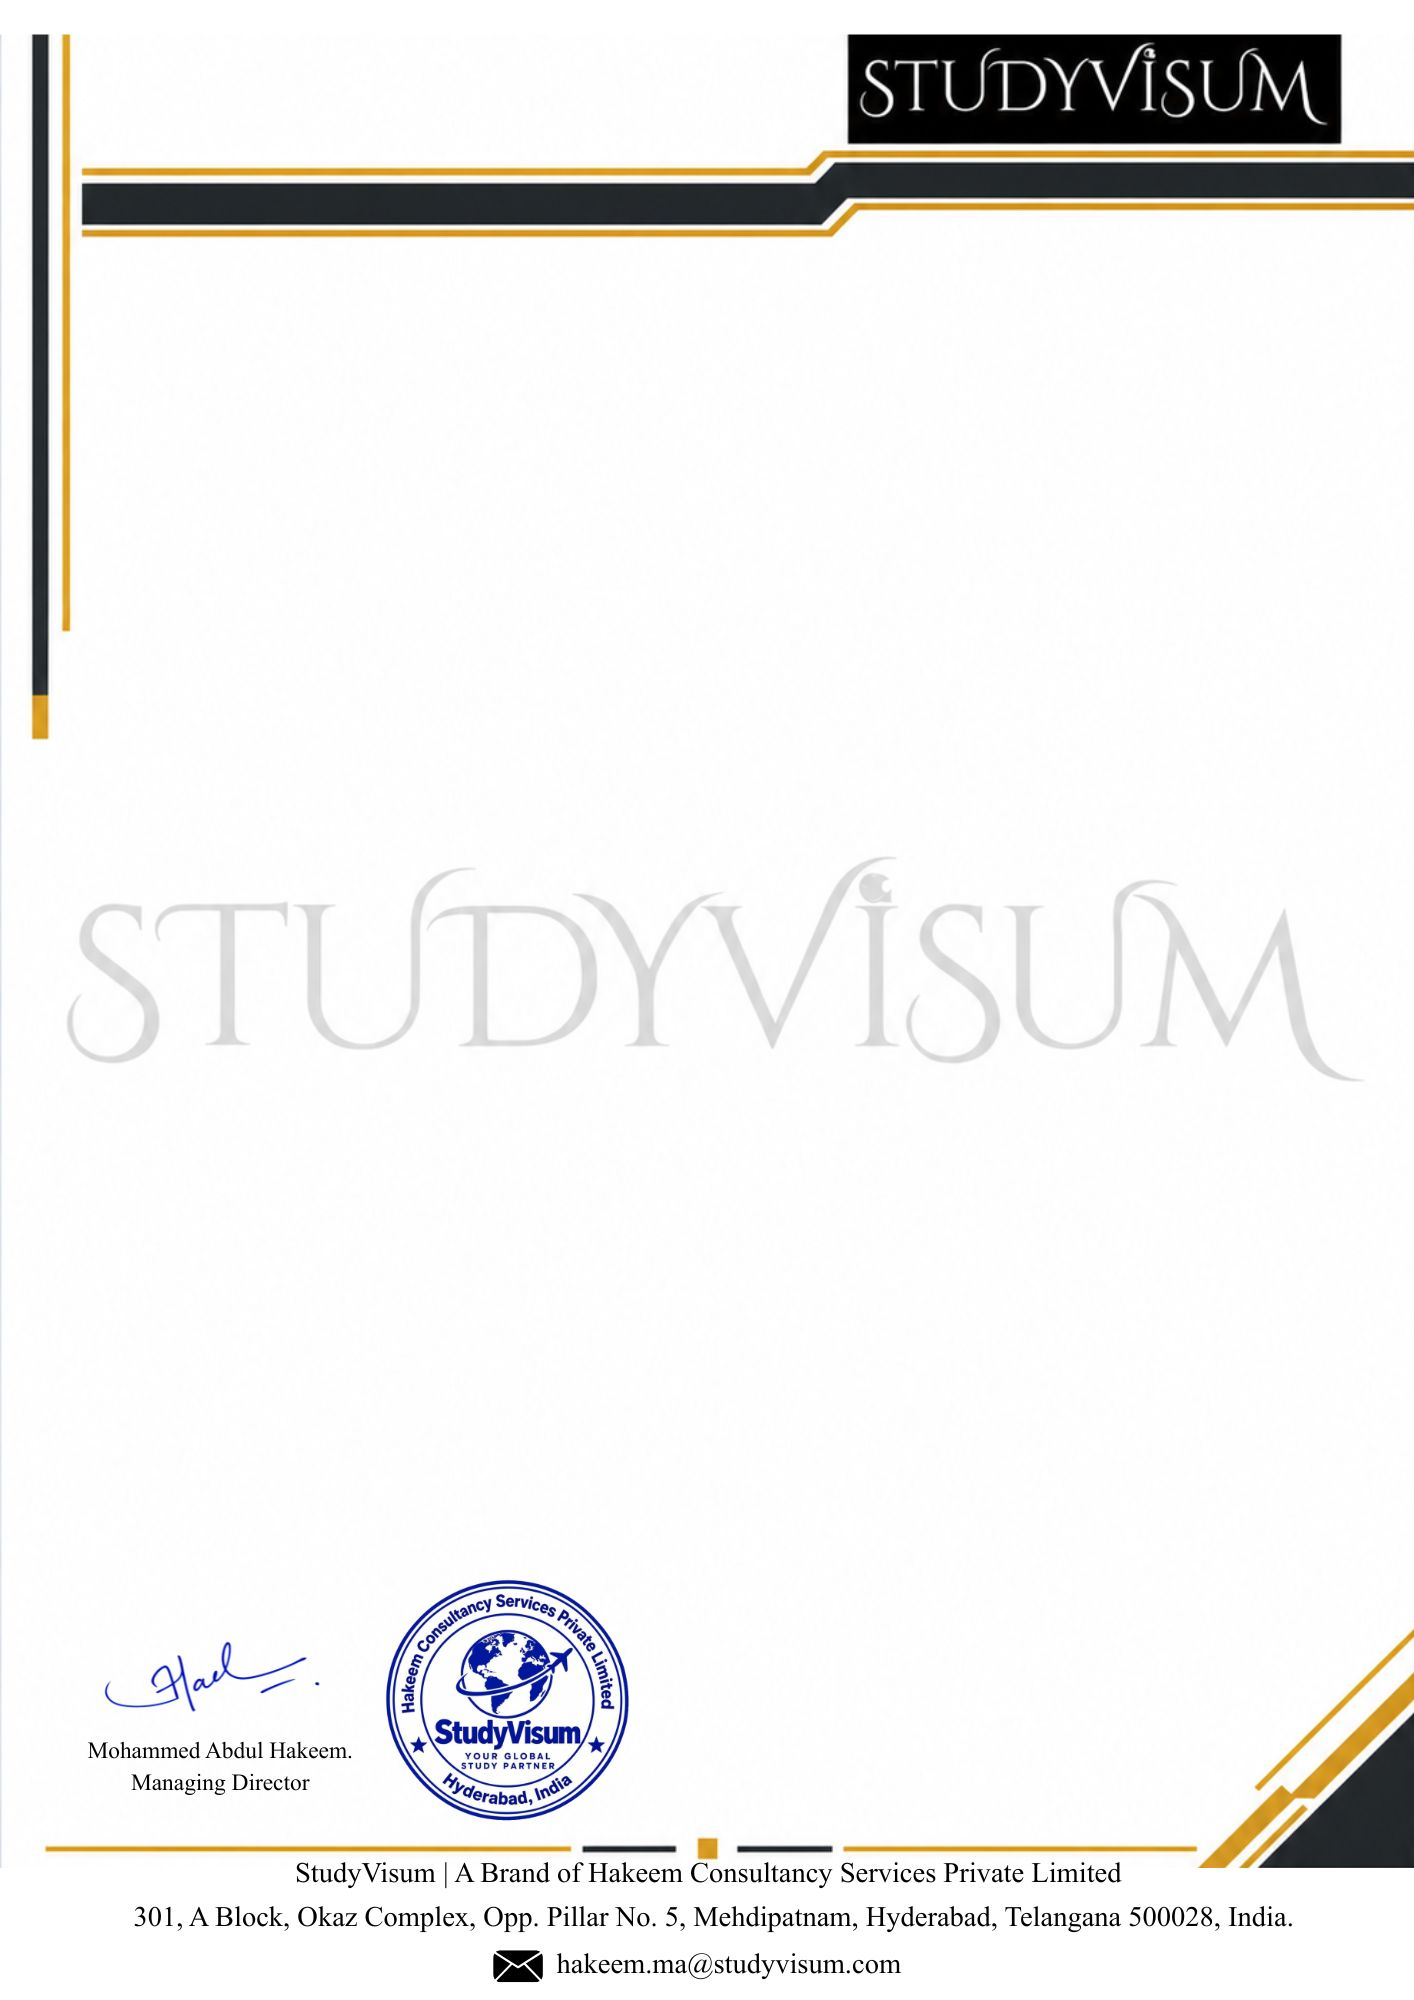
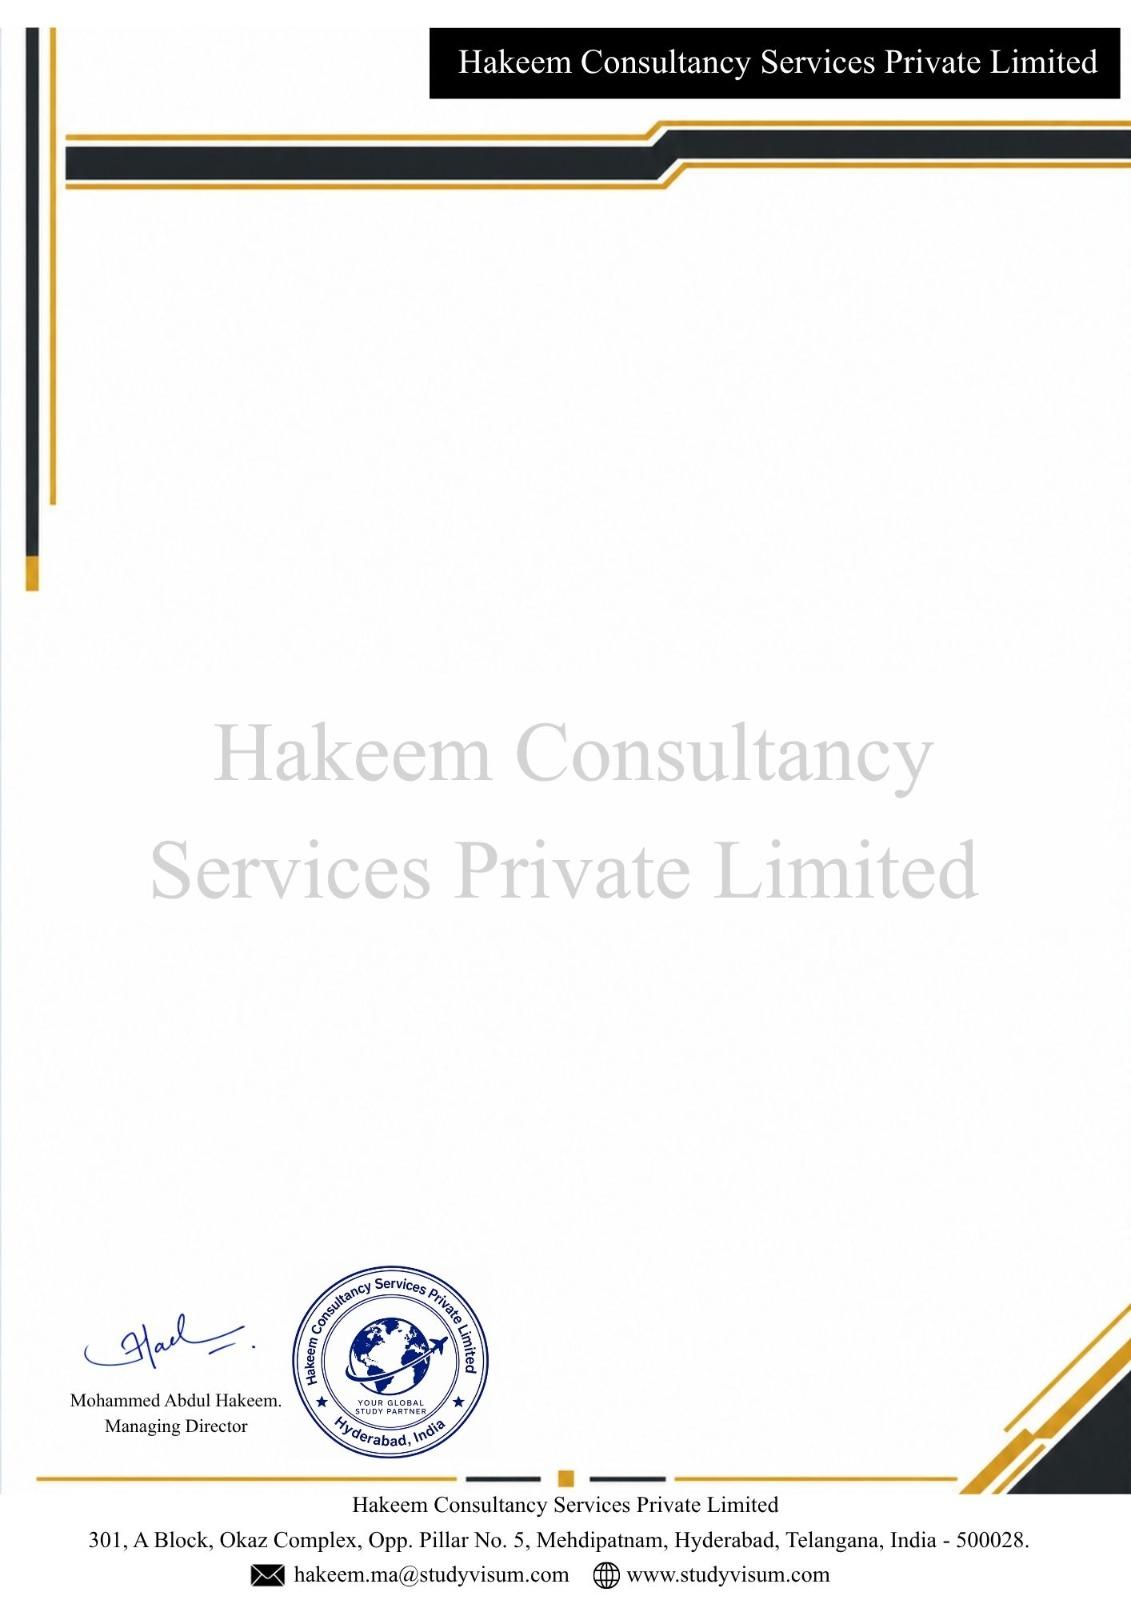
feat: update Hakeem Consultancy letterhead branding

diff --git a/lib/billing/pdf/unofficialLetter.ts b/lib/billing/pdf/unofficialLetter.ts
@@ -722,15 +722,7 @@ export async function buildUnofficialLetterPdf(
 
 
 
-  doc.text(
 
-    "UNOFFICIAL",
-
-    CONTENT_LEFT,
-
-    y
-
-  );
 
 
 
